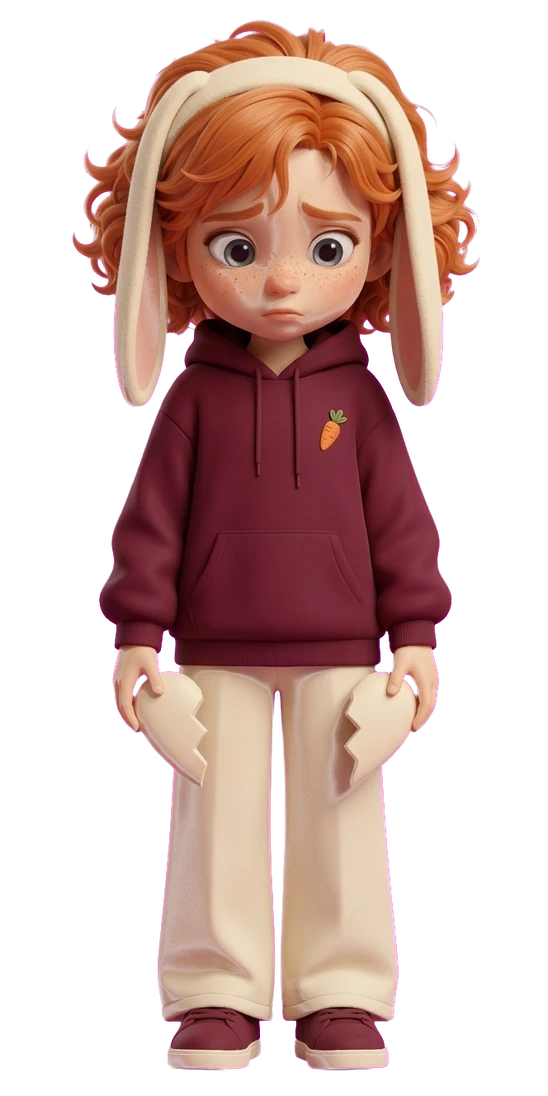
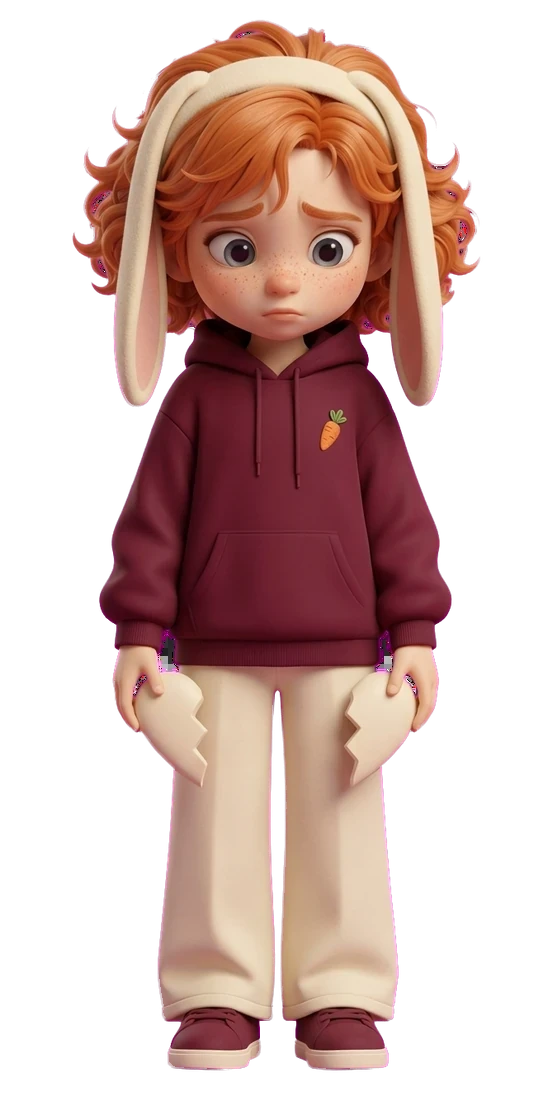
Key on the green that magenta is missing, not on distance from magenta
Her skin came back mottled, and it was this script, not the render. The key
measured how far a pixel sits from magenta in RGB, which reads as sensible
and is quietly wrong: a cheek shadow at (214,132,140) sits 132 away, inside
any tolerance wide enough to catch the plate's own compression noise. So a
fifth of every figure was returned semi-transparent and despilled — 24% of
the interior of the Sunrise plates, 16% of FastResume's — and the panel
behind her showed through the warmest parts of her face.

Magenta is red and blue with the green taken out, so `min(r, b) - g` is the
question worth asking. The plate scores 255; that same cheek shadow scores 8,
a burgundy trouser 10, cream 0. Nothing on a person comes near, so the key
can be generous at the edge and never reach the middle of a face. Interior
partial pixels: 24% -> 1.5%.

The despill band now grows two pixels inward as well. A key this tight leaves
the last rim of her fully opaque, and weighting the correction by transparency
alone never reached those pixels, which is where the pink outline around a
cream trouser leg was surviving.

Eleven plates are recut from their renders. The eight whose renders are gone
are repaired in place instead: flood fill finds the true outside, a two-pixel
rim keeps its ramp, everything the fill cannot reach goes solid.

diff --git a/scripts/make-plates.py b/scripts/make-plates.py
@@ -25,7 +25,7 @@ import sys
 from pathlib import Path
 
 try:
-    from PIL import Image, ImageChops
+    from PIL import Image, ImageChops, ImageFilter
 except ImportError:
     sys.exit("Pillow is missing. Install it with: python3 -m pip install pillow")
 
@@ -40,39 +40,47 @@ def parse_hex(value):
 
 
 def key_out(image, key, inner, outer):
-    """Drop the background to transparent and pull the spill off the edges.
+    """Drop the magenta plate to transparent and pull the spill off the edges.
 
-    Pixels within `inner` of the key colour go fully transparent, pixels beyond
-    `outer` stay fully opaque, and the band between them ramps — which is what
-    keeps curls and the fringe of a lace hem from turning into a hard stencil.
+    Keyed on green deficiency, `min(r, b) - g`, not on distance from the key
+    colour in RGB. Distance looked reasonable and was quietly wrong: it asks
+    "how far is this pixel from magenta", and the warm shadows on skin are not
+    far enough. A cheek shadow at (214,132,140) sits 132 from magenta, inside
+    any tolerance wide enough to catch the plate's own compression noise — so a
+    fifth of every figure came back semi-transparent and despilled, which is
+    what mottled the faces.
+
+    Green deficiency asks the question that actually separates them, because
+    magenta is red and blue with the green taken out. The plate scores 255. That
+    same cheek shadow scores 8, a burgundy trouser 10, cream 0. Nothing on a
+    person comes close, so the key can be generous at the edge without ever
+    reaching the middle of a face.
     """
     r, g, b = image.convert("RGB").split()
-    kr, kg, kb = key
 
     # Channel maths rather than a per-pixel loop: a full-size render is several
     # million pixels, and in Python that is minutes per image instead of a blink.
-    def spread(channel, level):
-        flat = Image.new("L", image.size, level)
-        return ImageChops.lighter(ImageChops.subtract(channel, flat),
-                                  ImageChops.subtract(flat, channel))
-
-    dist = ImageChops.lighter(ImageChops.lighter(spread(r, kr), spread(g, kg)),
-                              spread(b, kb))
+    score = ImageChops.subtract(ImageChops.darker(r, b), g)
 
     span = max(outer - inner, 1)
-    ramp = [0 if d <= inner else 255 if d >= outer else round(255 * (d - inner) / span)
-            for d in range(256)]
-    alpha = dist.point(ramp)
+    ramp = [255 if v <= inner else 0 if v >= outer else round(255 * (outer - v) / span)
+            for v in range(256)]
+    alpha = score.point(ramp)
 
-    # Magenta spill shows up as red and blue running ahead of green, so pulling
-    # them back toward green kills the pink halo around the curls.
+    # Magenta spill shows up as red and blue running ahead of green. Pulling them
+    # back toward green kills the pink halo around the curls.
     #
     # Only at the edge, though. Warm skin and a mustard sleeve also carry more
     # red than green, and despilling those turns the whole figure pink — so the
     # correction is weighted by transparency: full where the plate shows through,
     # nil wherever the pixel is solidly her.
+    #
+    # The band is grown a couple of pixels inward. A tight key leaves the last
+    # rim of her fully opaque, and weighting the correction by transparency
+    # alone never reaches those pixels — which is where the pink outline around
+    # a cream trouser leg was surviving.
     excess = ImageChops.subtract(ImageChops.add(r, b, scale=2), g)
-    edge = ImageChops.invert(alpha)
+    edge = ImageChops.invert(alpha).filter(ImageFilter.MaxFilter(5))
     r = Image.composite(ImageChops.lighter(ImageChops.subtract(r, excess), g), r, edge)
     b = Image.composite(ImageChops.lighter(ImageChops.subtract(b, excess), g), b, edge)
 
@@ -87,10 +95,10 @@ def main():
     ap.add_argument("--width", type=int, default=1100)
     ap.add_argument("--pad", type=int, default=24)
     ap.add_argument("--key", type=parse_hex, default=(255, 0, 255))
-    ap.add_argument("--inner", type=int, default=60,
-                    help="distance from the key colour that counts as background")
-    ap.add_argument("--outer", type=int, default=110,
-                    help="distance beyond which a pixel is left alone")
+    ap.add_argument("--inner", type=int, default=55,
+                    help="green-deficiency score below which a pixel is certainly the figure")
+    ap.add_argument("--outer", type=int, default=120,
+                    help="score above which a pixel is certainly the plate")
     ap.add_argument("--aspect", type=float, default=None, metavar="H_OVER_W",
                     help="pad the box sideways to this height/width ratio; the "
                          "standing plates on the wall are 2.0")
@@ -113,7 +121,7 @@ def main():
     # One box for the set, not one per file.
     boxes = [im.getbbox() for im in keyed.values()]
     if any(b is None for b in boxes):
-        sys.exit("one image came out fully transparent — check --key and --inner")
+        sys.exit("one image came out fully transparent — check --inner and --outer")
 
     left = min(b[0] for b in boxes)
     top = min(b[1] for b in boxes)
